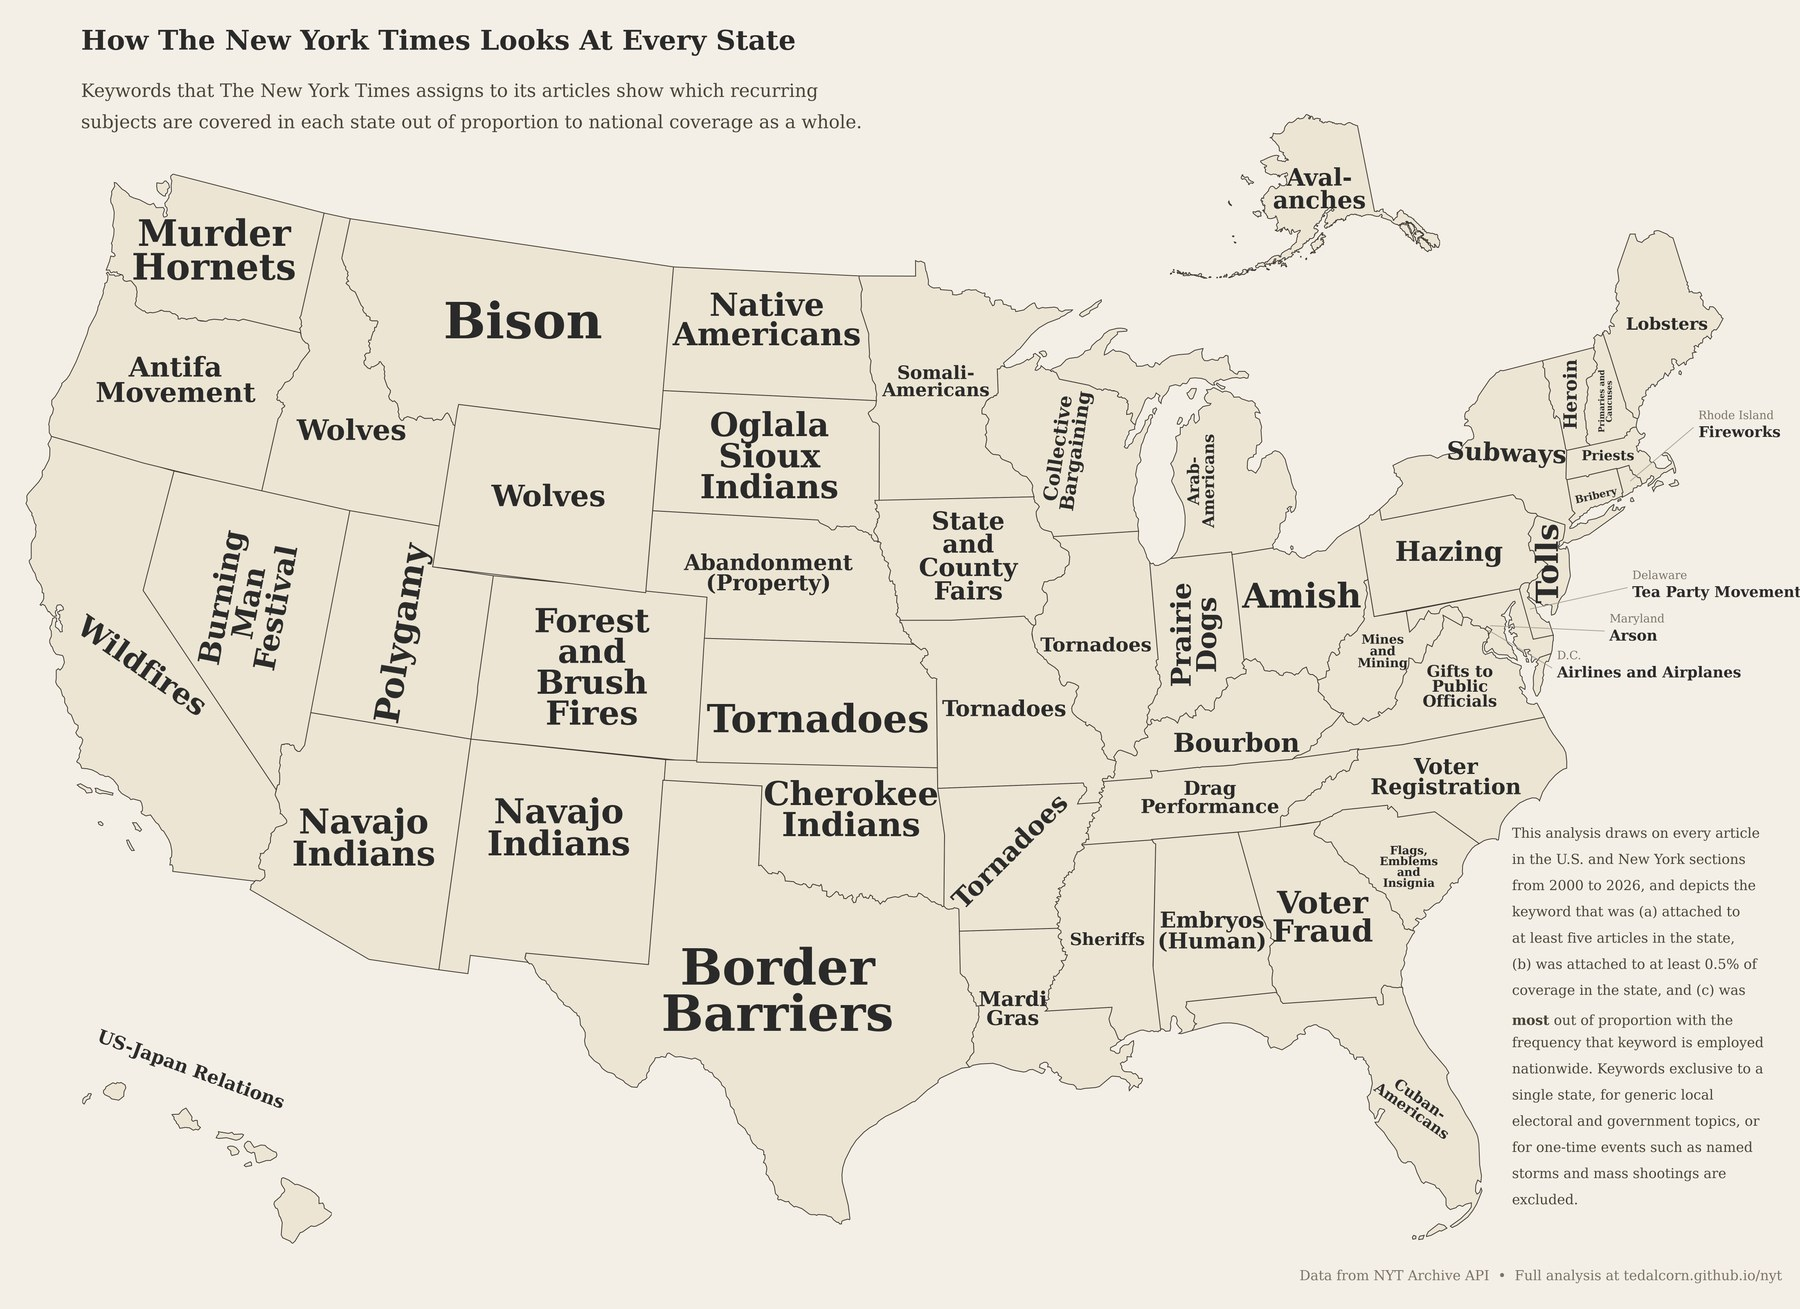
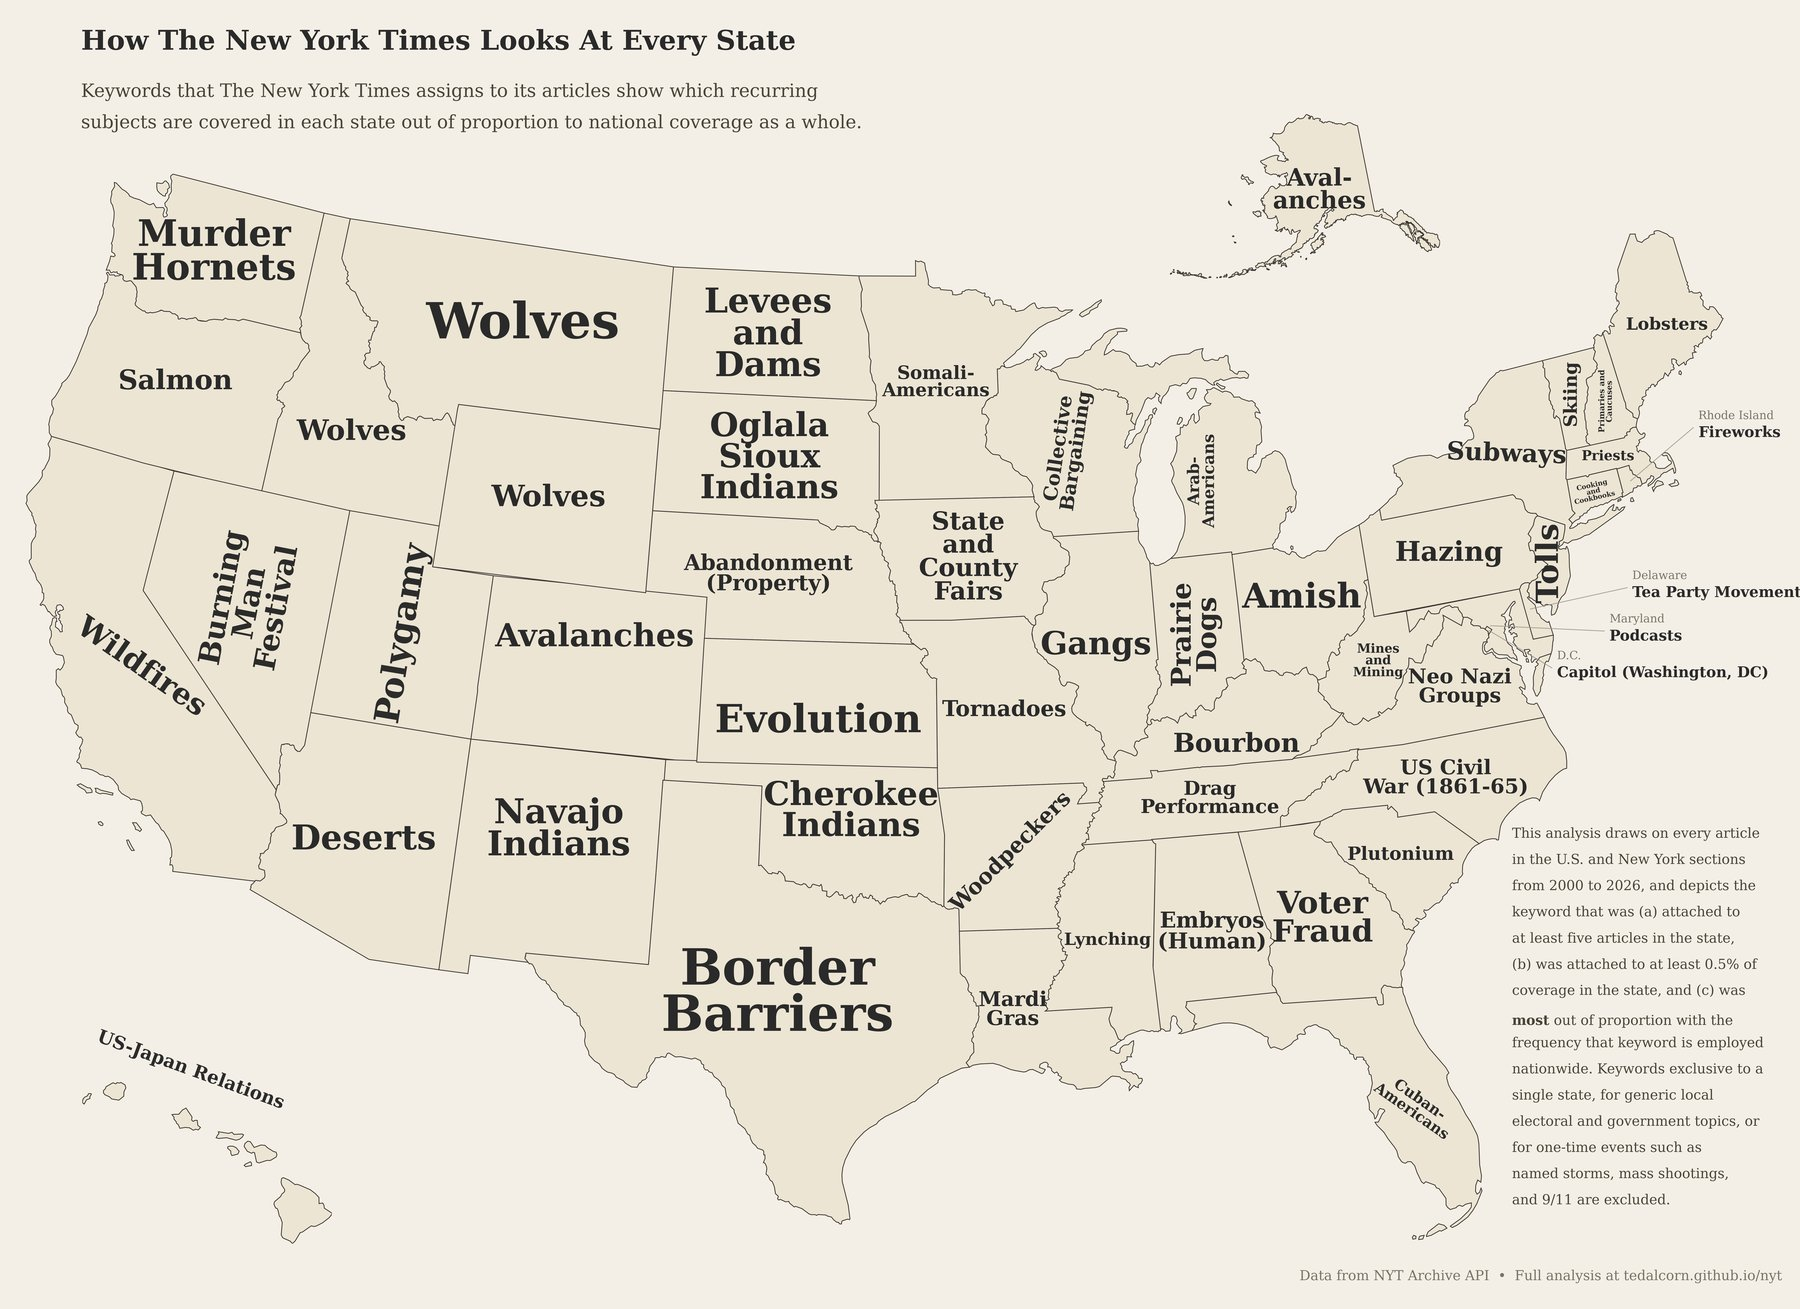
Strip pe/og fields + state map 9/11 carve-out for NY/D.C.
- pe (persons) and og (organizations) dropped from article files: no
  user-facing view reads them (Newsmakers tab uses data/subjects.json).
  Saves ~78 MB / 9.5% off the article-data payload.
- build_data.py updated to skip pe/og in future builds.
- State map: NY and D.C. get the 9/11 carve-out (Pentagon, WTC,
  Hijacking, Airlines and Airplanes) — same rule already applied to
  Pakistan/Afghanistan/Saudi Arabia/Kuwait/the 'stans. 80-85% of those
  tags' state coverage is 2001-02 articles crowding out actual themes.
- Methodology copy updated: "for one-time events such as named storms,
  mass shootings, and 9/11 are excluded."
- tag_config.json: Whitewater Case → headline event (was inflating
  Arkansas as 81% year-burst); Maori→Maoris merge; Geographic Profiles
  added to generic filter (was inflating Angola's 2002-03 cluster).
- Refresh state-map carousel graphics with new map output.

diff --git a/index.html b/index.html
@@ -9087,7 +9087,7 @@ loadData();
         async src="//gc.zgo.at/count.js"></script>
 <div style="position:fixed;bottom:8px;right:12px;font-size:10px;color:#bbb;z-index:9999;display:flex;align-items:center;gap:8px">
   <a href="https://forms.gle/6zyN4X1ds4j2LpTV7" target="_blank" style="color:#888;text-decoration:none;border:1px solid #ddd;border-radius:3px;padding:2px 6px;background:#fff;font-size:10px">Send feedback</a>
-  <span id="bottomRevStamp" style="pointer-events:none">Last revised: 5/15/26 4:45pm</span>
+  <span id="bottomRevStamp" style="pointer-events:none">Last revised: 5/16/26 11:49am</span>
 </div>
 </body>
 </html>

diff --git a/scripts/build_data.py b/scripts/build_data.py
@@ -2872,10 +2872,10 @@ def main():
         if a.get("subjects"):
             rec["sb"] = [_rewrite_conv_year(_normalize_subject_kw(s), a["year"])
                          for s in a["subjects"]]  # subject keywords
-        if a.get("persons"):
-            rec["pe"] = a["persons"]   # persons keywords
-        if a.get("organizations"):
-            rec["og"] = [_normalize_org_kw(o) for o in a["organizations"]]  # organizations keywords
+        # 'pe' (persons) and 'og' (organizations) intentionally omitted
+        # from the on-disk article files: no dashboard view reads them
+        # (Newsmakers uses data/subjects.json instead). Dropping them
+        # saves ~13% of total article-data payload on page load.
         if a.get("print_headline"):
             rec["ph"] = a["print_headline"]  # print headline (omit if empty to save space)
         if a.get("kicker"):